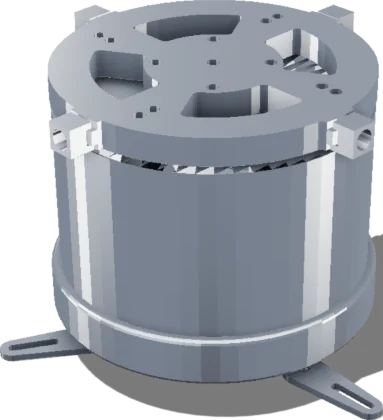
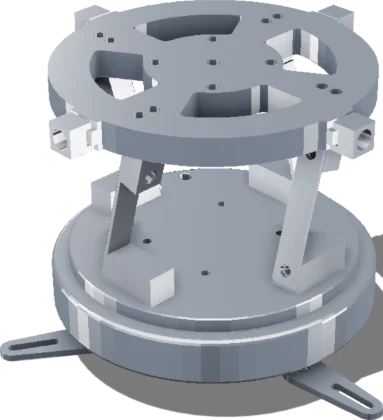
구형 · 75도 진동기의 커버를 벗김
유신이 짚은 것이다 — 옆코아는 판스프링이 다 보이는데 그 둘만 원통 커버에
덮여 안이 안 보였다. 옆코아와 고주파는 그대로 둔다.

숨긴 조각은 ballparts.mjs 로 크기를 재서 찾았다. 구형 #16(지름 212 ·
높이 122 · 456삼각), 75도 #20(지름 222 · 높이 122 · 460삼각). 둘 다 그
아래 지름 230~240 짜리 바닥 플랜지가 따로 있어 커버를 빼도 bbox 가 안
변한다 — 숫자로는 확인이 안 되고 찍어서 봐야 한다. 떠 있는 조각은 생기지
않았다(볼피더에서는 커버 뚜껑 부속이 남았다).

render7.mjs 에 :hide= 를 더했다. prodrender.mjs 에 같은 장치가 있는데
그쪽은 볼피더 방음커버를 숨기는 데 쓴다 — 두 파일은 갈라진 사이라 이름을
같게 뒀다. 옵션 파싱은 반복 루프여야 한다. 한 번만 훑으면 :flipY:hide=16
처럼 둘을 붙였을 때 뒤엣것만 잡히고 앞엣것이 경로에 남아 파일을 못 연다 —
prodrender 에서도 같은 함정을 밟았던 자리다.

구형의 w 가 355 → 362 로 바뀌었다. w 는 구운 그림의 폭이라 실루엣이
달라지면 따라 움직인다. 75도는 383 그대로다 — 커버가 바닥 플랜지보다
좁아 폭을 안 정하고 있었다. VIBRATOR_SPAN 1453 → 1460, --span 계수
0.2891 → 0.2877. 주석 속 설명 넷도 함께 고쳤다.

diff --git a/src/app/page.tsx b/src/app/page.tsx
@@ -285,6 +285,25 @@ const PARTS = [
       README 22번에 올라가 있다. **수치를 내가 더 쪼개거나 키우지 말 것.** */
 const PART_ERROR = { four: "0.1" };
 
+/* ⚠⚠⚠ **2026-10-16 — 구형·75도의 커버를 벗겼다.**
+   "구형 진동기 / 75도 진동기 이거 옆에 커버라는데 원래 옆코아 진동기처럼
+   안에 내부가 보여야 하는데 커버로 가려져 있는 거라는데" 라는 말을 유신에게서
+   받았다. 둘만 원통 커버에 덮여 판스프링이 안 보였고, 옆코아·고주파는 그대로다.
+
+   숨긴 조각 — scratchpad/ballparts.mjs 로 크기를 재서 찾았다
+     구형  **#16**  지름 212 · 높이 122 · 456삼각
+     75도  **#20**  지름 222 · 높이 122 · 460삼각
+   둘 다 그 아래 지름 230~240 짜리 바닥 플랜지가 따로 있어 **bbox 는 안 변한다** —
+   커버를 빼도 모델 크기가 같다고 나오므로 숫자로는 확인이 안 된다. **찍어서 본다.**
+
+   ⚠ 조각 번호는 **STEP 을 다시 내보내면 바뀔 수 있다.** 그때는 ballparts.mjs
+      로 다시 재고 render7 의 `:hide=` 값을 고친다.
+   ⚠ 떠 있는 조각은 생기지 않았다(볼피더에서는 커버 뚜껑 부속이 남았다).
+
+   ⚠⚠ **그래서 구형의 w 가 355 → 362 로 바뀌었다.** w 는 구운 그림의 폭이고
+      (높이는 bake.mjs 가 420 으로 맞춘다) 커버를 벗기면 실루엣이 달라진다.
+      75도는 383 그대로다 — 커버가 바닥 플랜지보다 좁아 폭을 안 정하고 있었다.
+      **VIBRATOR_SPAN 과 --span 계수도 함께 바뀐다**(아래). */
 const VIBRATORS = [
   /* ⚠⚠ **2026-10-15 에 2D 평면도 SVG 넷에서 3D 렌더 넷으로 바꿨다.**
      옛 값은 1호 248x255 · 2호 346x363 · 3호 450x456 · 4호 659x604
@@ -487,7 +506,7 @@ const VIBRATORS = [
      ⚠⚠ **그림을 다시 구우면 cx 도 다시 재야 한다.** 렌더 각도·다리 위치가
         바뀌면 값이 통째로 달라진다. */
   { no: "고주파 진동기", w: 391, h: 420, cx: 0.486, src: "/images/hero/vibrator-hifreq.webp", alt: "2호 고주파진동기" },
-  { no: "구형 진동기", w: 355, h: 420, cx: 0.445, src: "/images/hero/vibrator-round.webp", alt: "2호 구형진동기" },
+  { no: "구형 진동기", w: 362, h: 420, cx: 0.445, src: "/images/hero/vibrator-round.webp", alt: "2호 구형진동기" },   // ⚠ 커버를 벗기며 355 → 362
   { no: "옆코아 진동기", w: 324, h: 420, cx: 0.469, src: "/images/hero/vibrator-sidecore.webp", alt: "2호 옆코아진동기" },
   { no: "75도 진동기", w: 383, h: 420, cx: 0.556, src: "/images/hero/vibrator-75deg.webp", alt: "2호 75도진동기" },
 ];
@@ -1081,14 +1100,15 @@ export default function Home() {
                      ul 은 100% 를 쓰며, **남는 폭 전부를 간격 셋이 나눈다.**
 
                      --h    가장 큰 4호의 **높이** 상한
-                     --span 네 그림 **폭의 합** = --h / 0.2891
-                            0.2891 = 420 / 1453 (가장 높은 그림 h / 네 폭의 합)
+                     --span 네 그림 **폭의 합** = --h / 0.2877
+                            0.2877 = 420 / 1460 (가장 높은 그림 h / 네 폭의 합)
+                            ⚠ 2026-10-16 에 1453 → 1460 — 구형 커버를 벗겨 w 가 355 → 362
                             1419 는 네 폭의 합(207+288+375+549)
                      li     calc(var(--span) * 그 기종 폭 / 1419)
                      gap    (100% - --span) / 3   ← 남는 폭을 셋이 나눈다
 
                      ⚠ --span 에 min() 이 걸려 있다. 화면이 높고 좁으면
-                        --h/0.2891 가 100% 를 넘어 **간격이 음수**가 된다.
+                        --h/0.2877 가 100% 를 넘어 **간격이 음수**가 된다.
 
                      ⚠⚠ **아래 비율 숫자를 손대면 거짓이 된다.** 넷은 같은
                         도면에서 같은 축척으로 잘라 온 것이고 그 비가 곧
@@ -1122,7 +1142,7 @@ export default function Home() {
                              414 390 375 360  폭         126 117 111 105
                              320x568    (라인업 감춤)     -
 
-                           --span 이 min(--h/0.2891, 100% - 3rem) 이고
+                           --span 이 min(--h/0.2877, 100% - 3rem) 이고
                            Container 안쪽이 1088px 이라, 1440 이상에서는
                            1040px 에서 폭이 먼저 막는다. 좁은 폭에서는
                            화면 폭 자체가 막는다. **높이가 상한인 구간은
@@ -1138,7 +1158,7 @@ export default function Home() {
 
                         ⚠⚠ **1280x820 은 폭 상한 경계에 올라앉아 있다.**
                            이것 때문에 두 번 재서 맞췄다. --h 가 368.6 보다
-                           크면 --h/0.2891 가 1040 을 넘어 **폭이 먼저 막고**,
+                           크면 --h/0.2877 가 1040 을 넘어 **폭이 먼저 막고**,
                            그러면 --h 를 줄여도 4호가 402px 에서 꼼짝하지
                            않는다. 실제로 0.78svh - 262 로 720 을 잡았을 때
                            820 은 여전히 +2px 넘쳤다 — 높이를 깎았는데도
@@ -1184,7 +1204,7 @@ export default function Home() {
                            1440 에서 4호가 402px 그대로였다. 기본값은 여기
                            var() 의 **두 번째 인자**로 둔다. */
                   ["--span" as string]:
-                    "min(calc(var(--h) / 0.2891), var(--cap, calc(100% - 3rem)))",
+                    "min(calc(var(--h) / 0.2877), var(--cap, calc(100% - 3rem)))",
                   gap: "max(0.5rem, calc((100% - var(--span)) / 3))",
                 }}
               >
